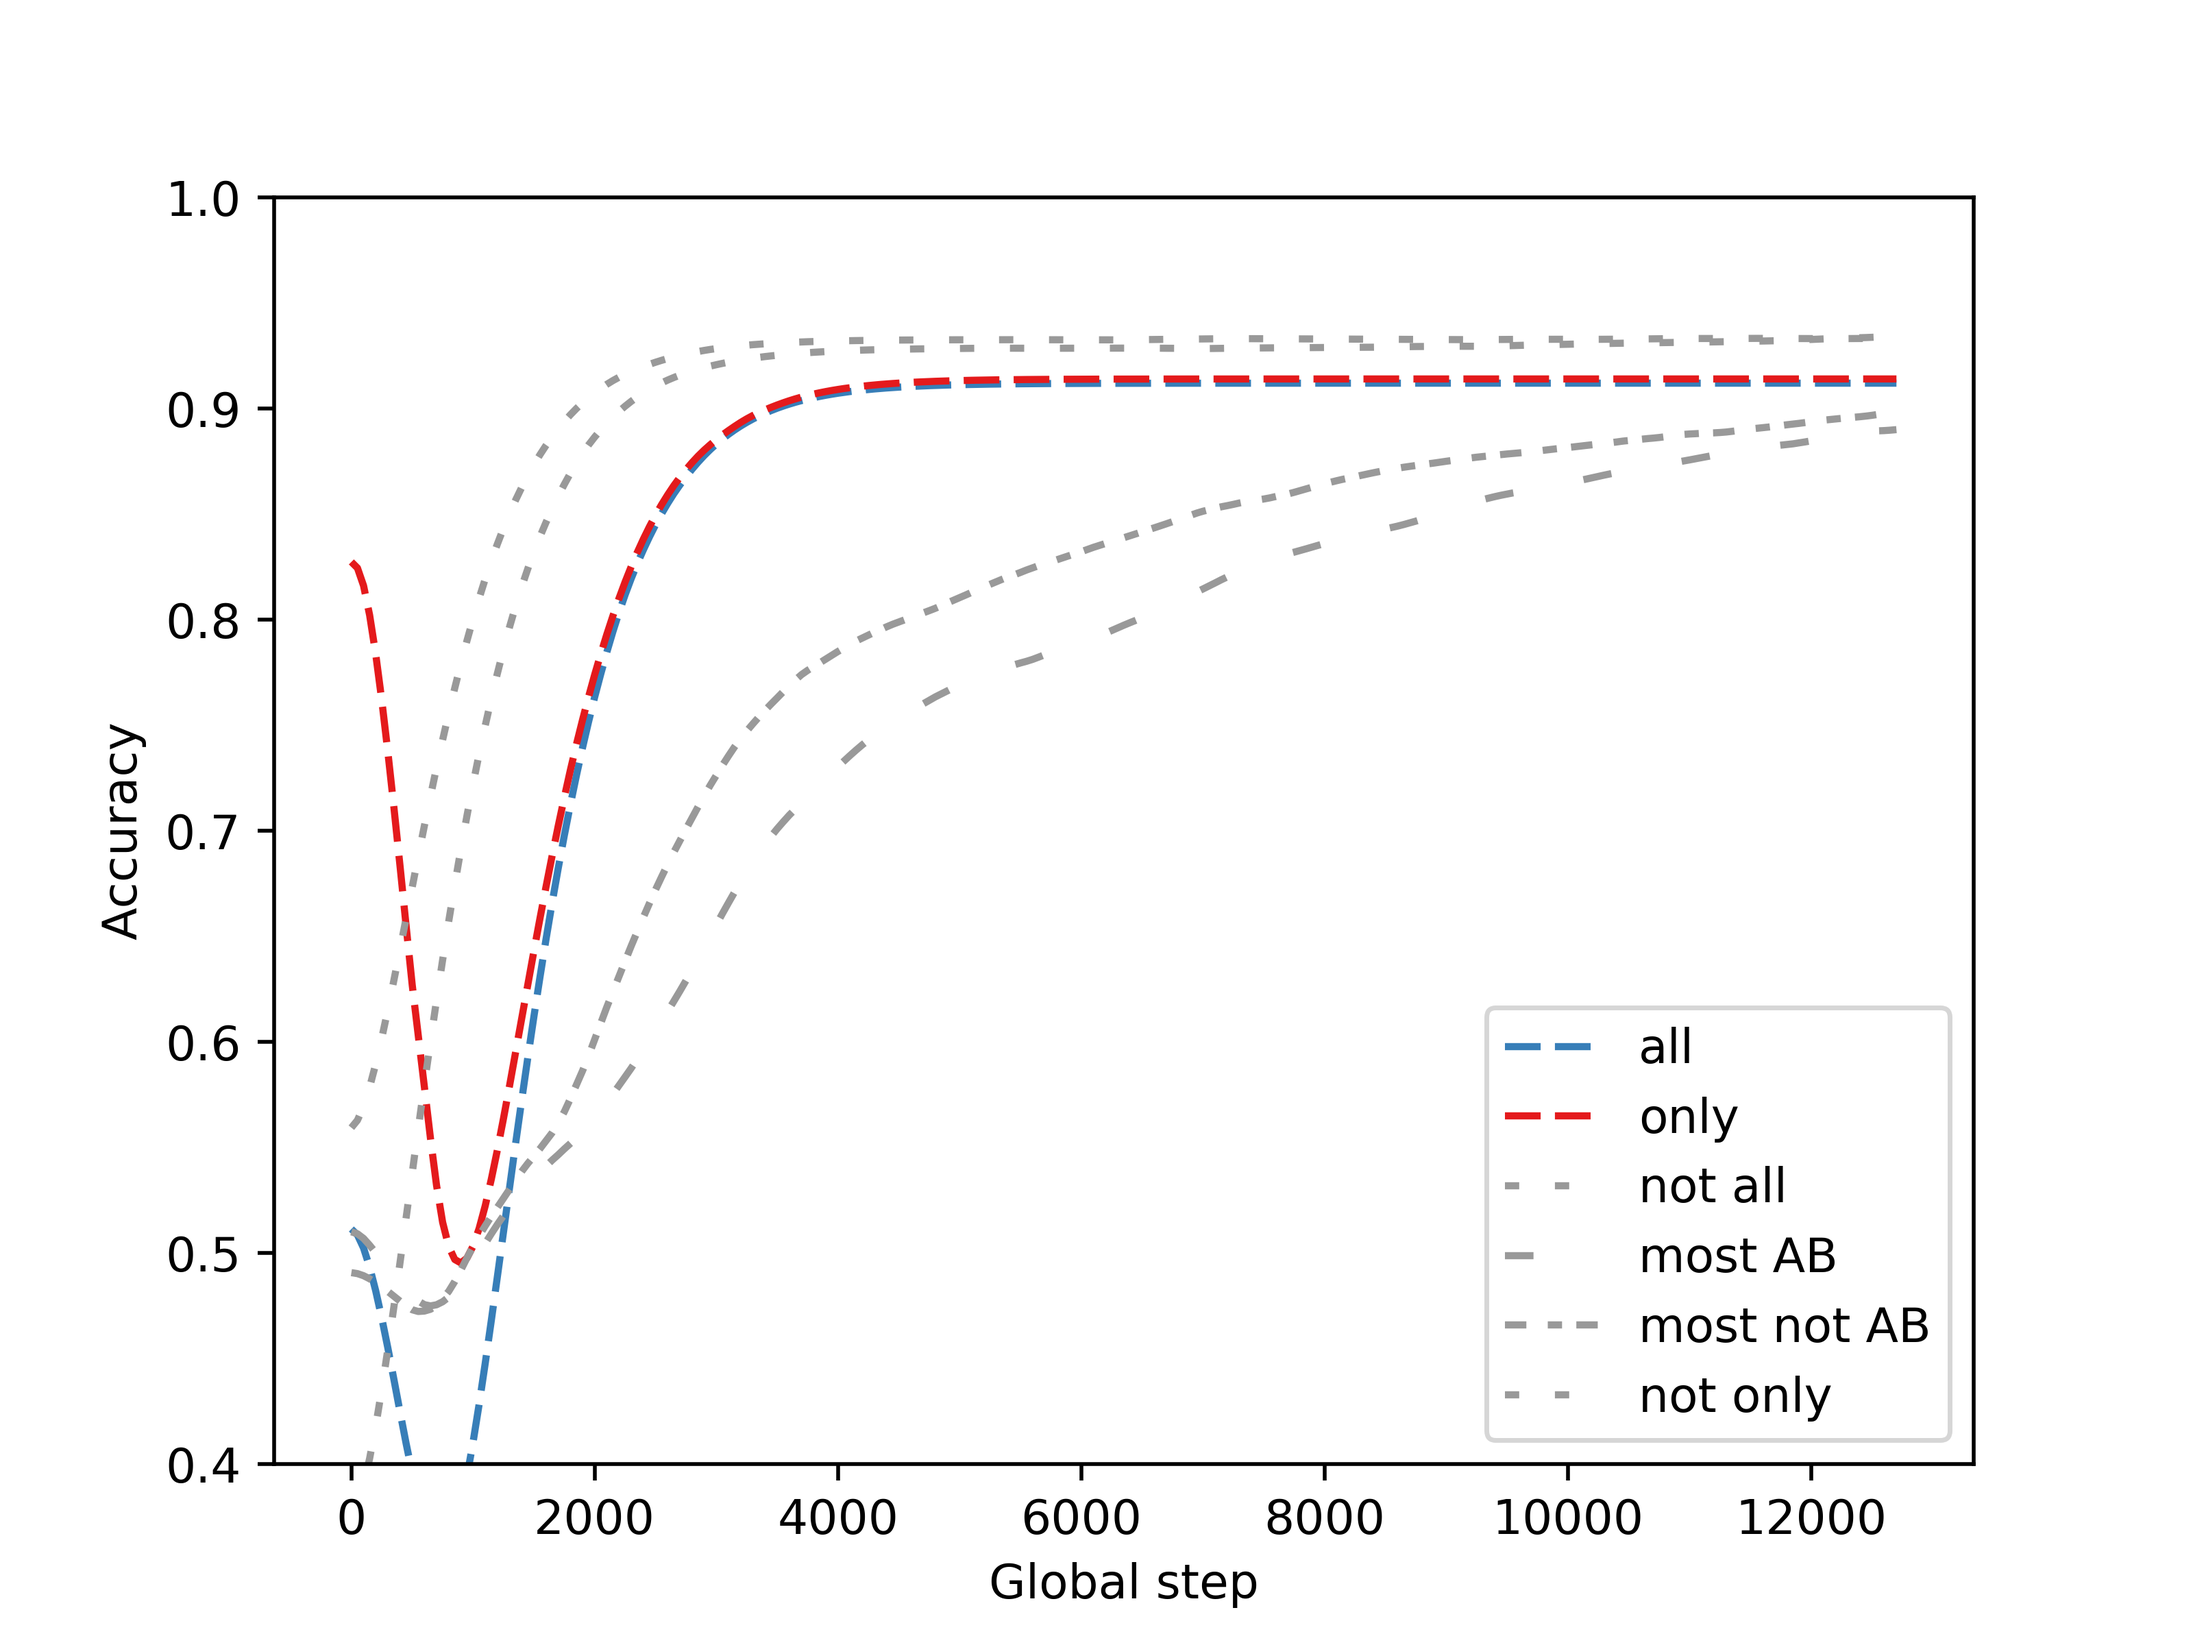
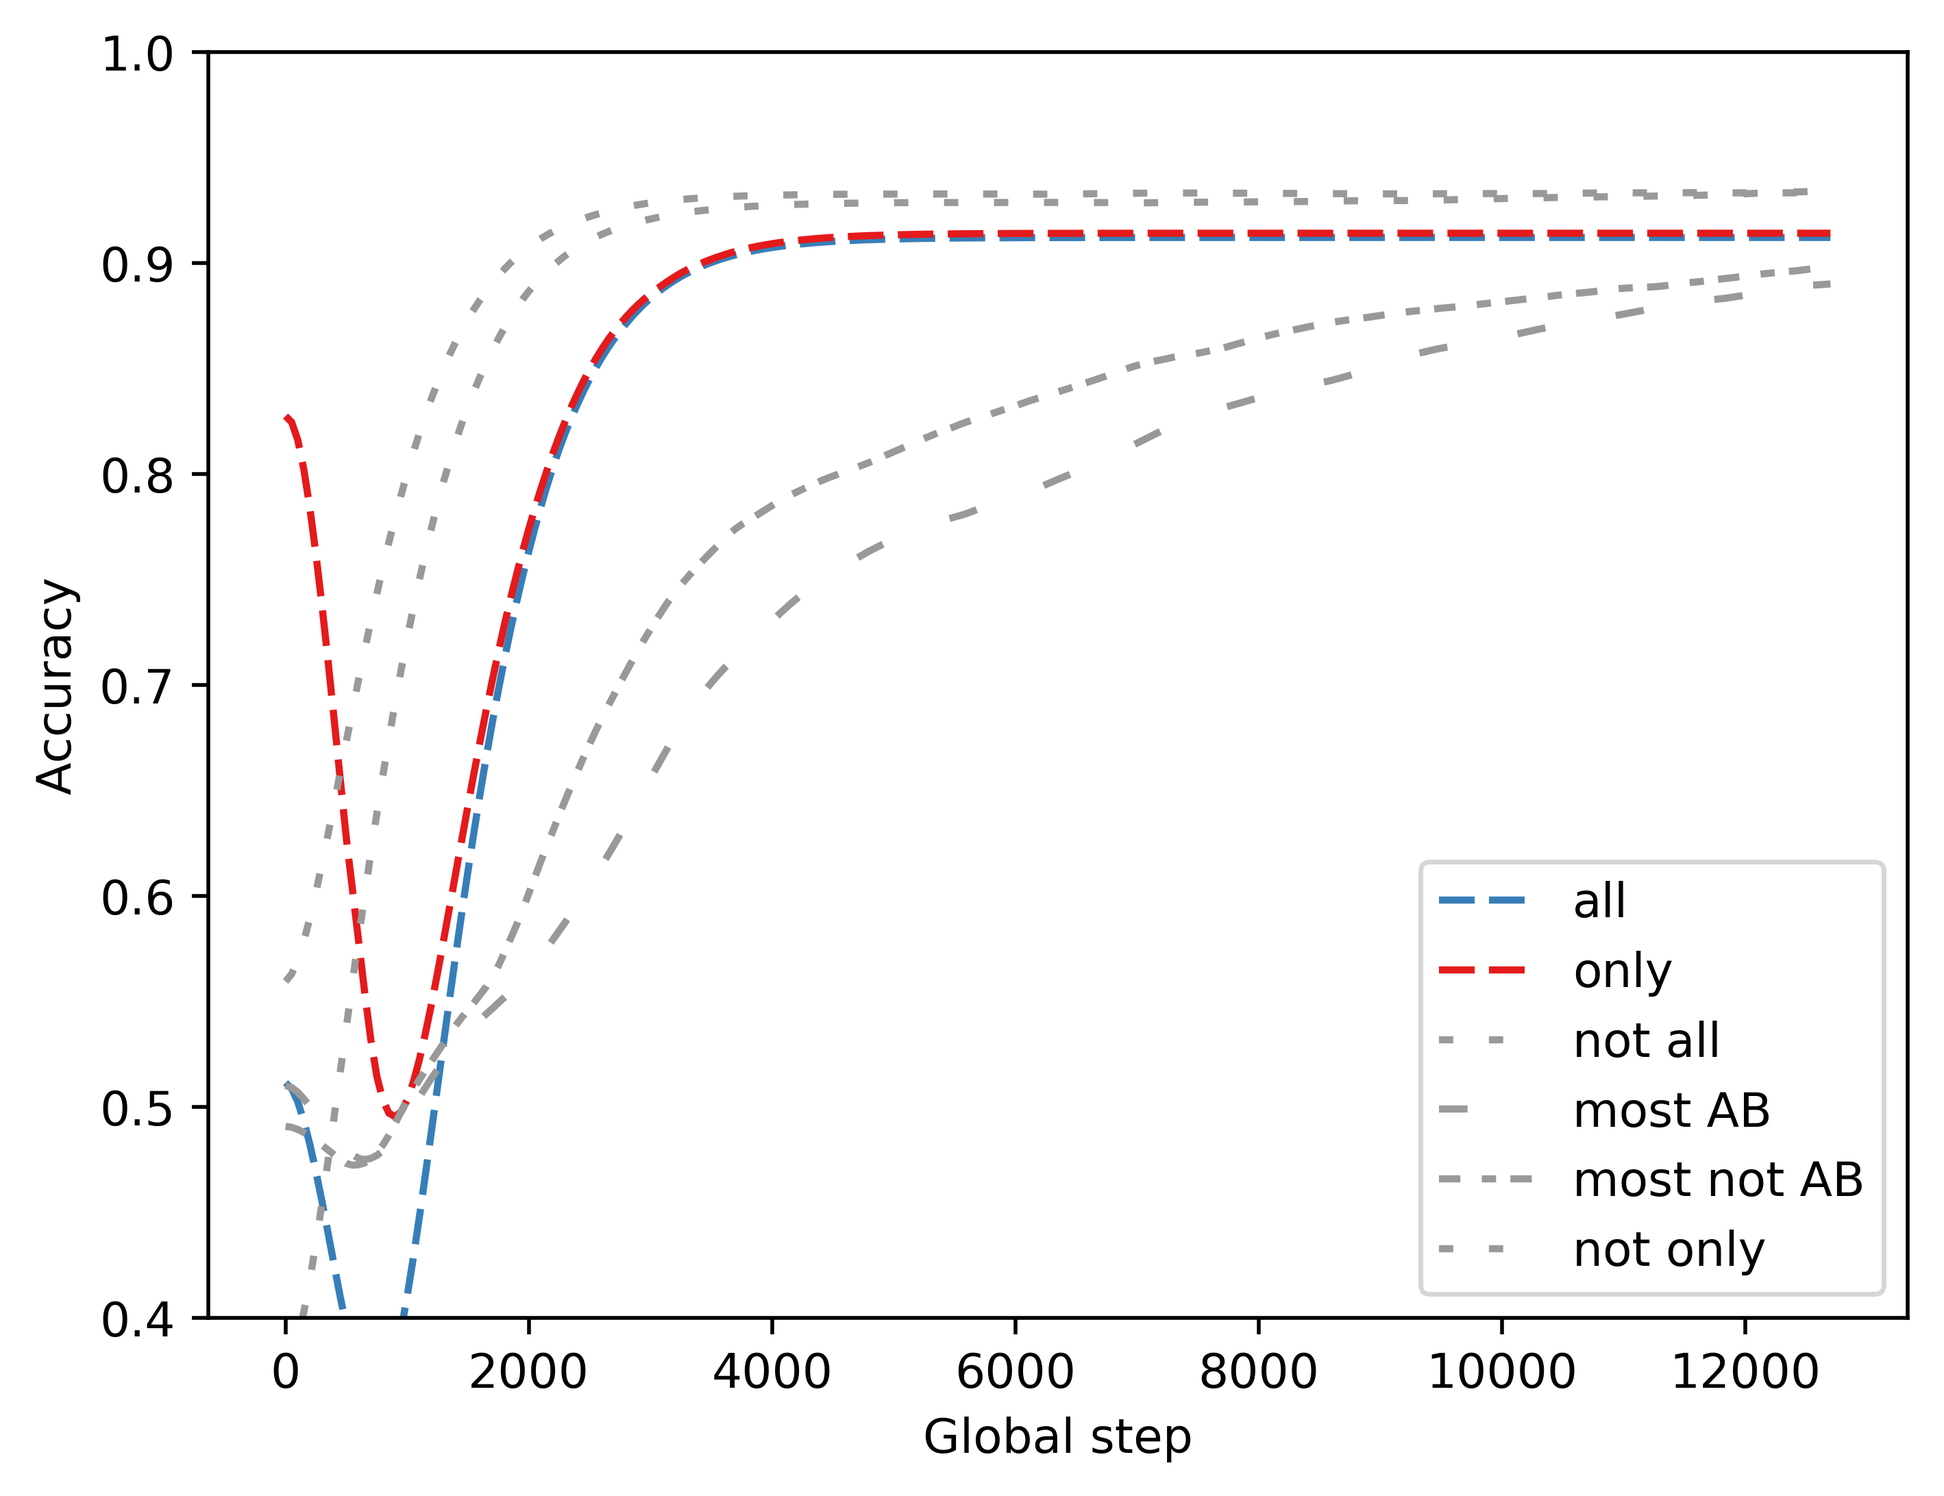
remove whitespace around plots

diff --git a/analysis.py b/analysis.py
@@ -25,7 +25,7 @@ import util
 import argparse
 
 # 1-5, specify manually
-run = 1
+run = 5
 
 COLORS = ["#377eb8", "#ff7f00", "#4daf4a", "#f781bf", "#a65628", "#984ea3", "#999999", "#e41a1c", "#dede00"]
 
@@ -280,7 +280,7 @@ def make_plot(data, quants, path_tosave, title, ylim=None, threshold=0.95):
     plt.legend(loc=4)
     plt.xlabel("Global step")
     plt.ylabel("Accuracy")
-    plt.savefig(path_tosave, dpi=500)
+    plt.savefig(path_tosave, dpi=500, bbox_inches="tight")
     plt.close()
 
     """
